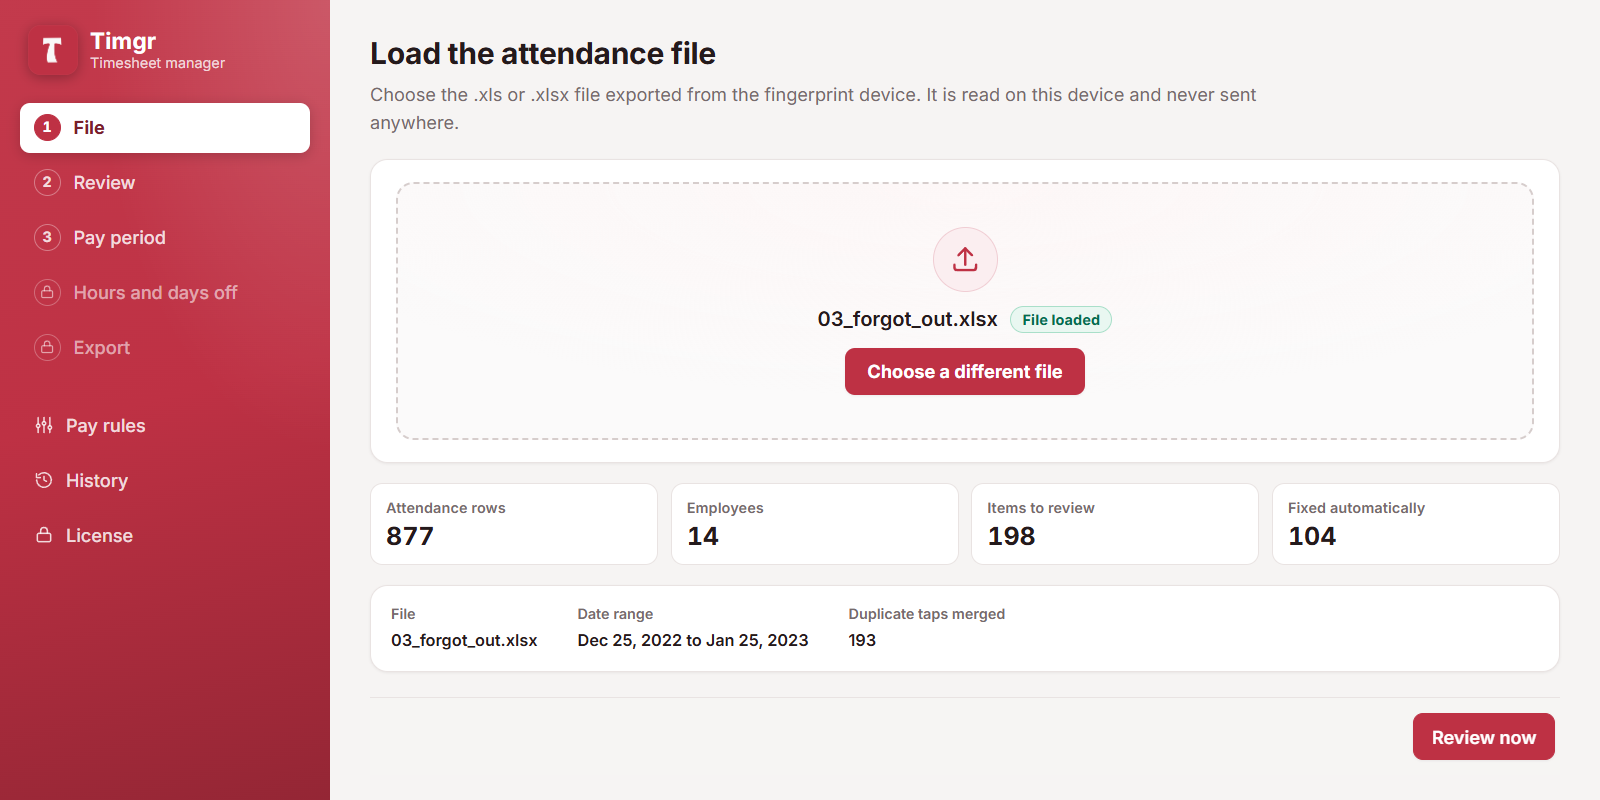
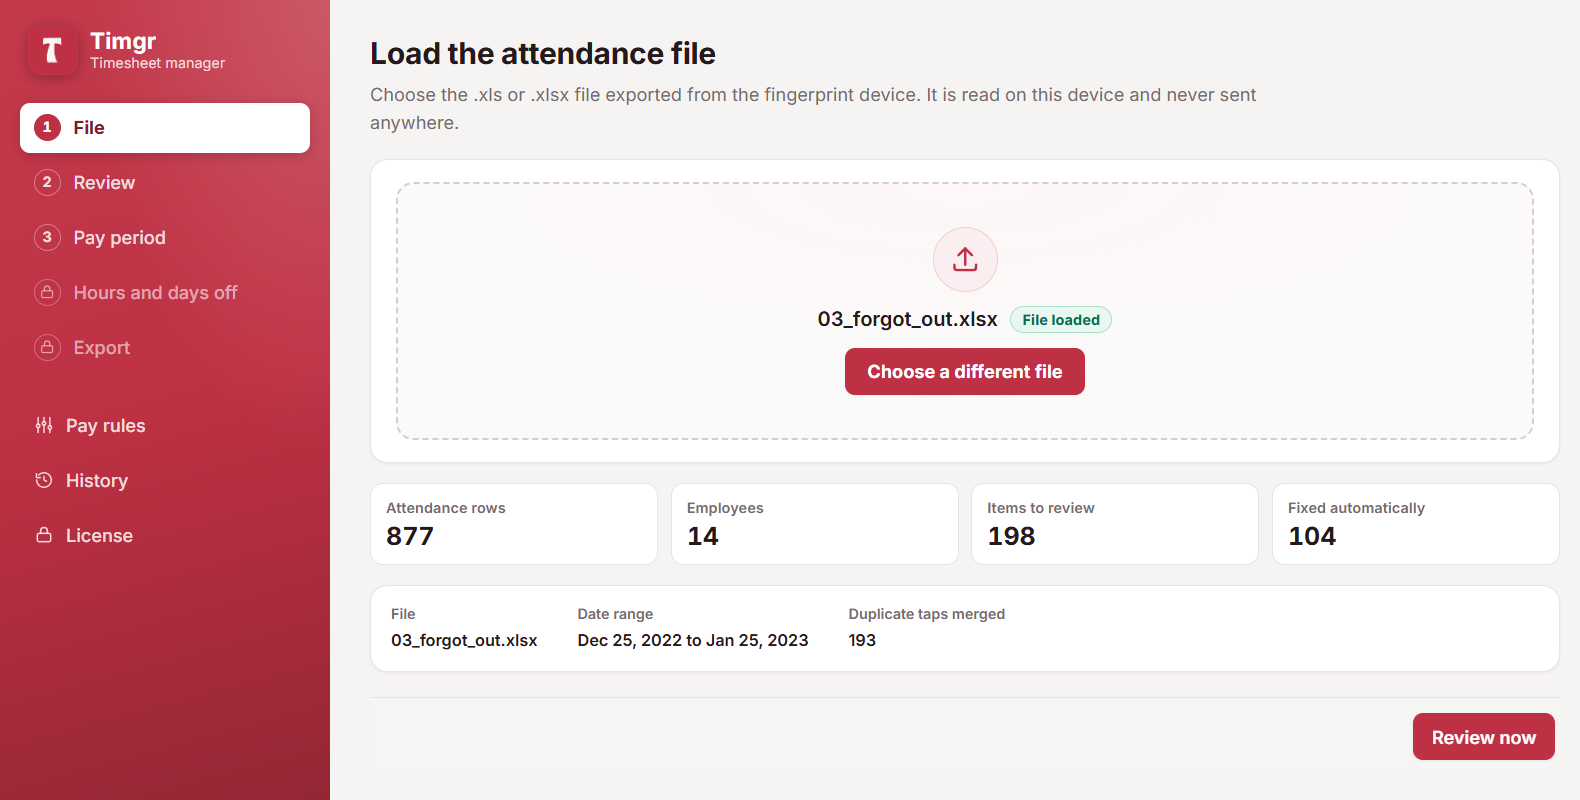
docs: rebuild the README around what the app actually does
Adds what the app catches (using the app's own labels), a preview-before-saving section, a questions section, and three more screenshots: the file screen, the all-answered state, and the Arabic right-to-left screen. Crops the window scrollbar out of the images.

diff --git a/README.md b/README.md
@@ -1,29 +1,58 @@
 <div align="center">
 
-<img src="Logo.png" alt="Timgr" width="96" height="96" />
+<img src="Logo.png" alt="Timgr" width="88" height="88" />
 
 # Timgr
 
 **Turn a fingerprint attendance export into a payroll-ready timesheet.**
 
-An offline Windows app. No account, no server, no telemetry.
+Runs on your own Windows PC. No account, no server, no telemetry.
 
 <img alt="Windows 10 and 11, 64-bit" src="https://img.shields.io/badge/Windows-10%20%7C%2011%20x64-0078D4?logo=windows&logoColor=white"> <img alt="No network" src="https://img.shields.io/badge/network-none-2EA44F"> <img alt="Version 1.3.0" src="https://img.shields.io/badge/version-1.3.0-BE3144"> <img alt="Proprietary license" src="https://img.shields.io/badge/license-proprietary-6E7781">
 
-**[Download for Windows](../../releases/latest)** &nbsp;·&nbsp; [Release notes](../../releases/latest) &nbsp;·&nbsp; [Licensing](#licensing)
+**[Download](#download)** &nbsp;·&nbsp; [Screenshots](#screenshots) &nbsp;·&nbsp; [What it catches](#what-it-catches) &nbsp;·&nbsp; [Licensing](#licensing) &nbsp;·&nbsp; [Release notes](../../releases/latest)
 
-<img src="screenshot-review.png" alt="Timgr's Review screen: 198 items found, 94 still needing an answer" width="100%" />
+<img src="screenshot-review.png" alt="The Review screen: 198 items found, 104 fixed on their own, 94 still waiting for an answer" width="100%" />
 
 </div>
+
+## Why
+
+A month of attendance comes out of the device full of noise: taps a second apart, people who forgot to clock out, one clock that jumped 45 days. Fixing that by hand in Excel takes hours, and the mistakes reach payroll.
+
+Timgr merges what can be merged on its own, puts the rest in front of you one item at a time with a suggested answer, and writes the workbook payroll already expects.
 
 ## What it does
 
 | Step | What happens |
 | --- | --- |
-| **1. File** | Open the `.xls` or `.xlsx` export from the fingerprint device. |
-| **2. Review** | Duplicate taps are merged, punches are paired into shifts, and anything odd is put in front of you instead of being guessed at. |
-| **3. Pay period** | The pay period, working hours, overtime, days off, and the pay rules for that period. |
-| **4. Export** | An Excel file in the layout payroll already expects. |
+| **1. File** | Open the `.xls` or `.xlsx` export from the fingerprint device. It is read on this PC and never sent anywhere. |
+| **2. Review** | Duplicate taps are merged, punches are paired into shifts, and anything odd waits for your answer. Export stays locked until every item has one. |
+| **3. Pay period** | The days this export pays for, the working hours, the weekly day off, the saved holidays, and the pay rules. |
+| **4. Export** | A preview of the finished sheet, then a saved `.xlsx` in the layout payroll already uses. |
+
+## What it catches
+
+Each of these is a decision you can see and change, not a silent guess:
+
+| What it finds | What you do about it |
+| --- | --- |
+| **Duplicate taps** | Two taps from the same moment. Merged on their own, and listed so you can see it happened. |
+| **Clock-in with no clock-out** | Apply the missing-punch penalty, or type the real clock-out time. |
+| **Clock-out with no clock-in** | The same, from the other side. |
+| **Accidental tap** | Clock-in and clock-out only seconds apart, usually someone walking past the device. Remove the shift, or keep it. |
+| **Gap in attendance** | A break in that person's days: a real absence, or a clock that was corrected. Keep the data as it is. |
+| **Dates far from the rest** | A jump of 45 days or more, usually a device glitch. Keep the punches, or exclude the days you choose. |
+| **Two departments** | One employee number under more than one department. Pick the department payroll uses. |
+| **Different name spellings** | One employee number, two spellings. Keep both, or pick the right one. |
+
+A status value the app does not recognise stops the file and names the values. It is never guessed at.
+
+## Preview before saving
+
+The export step shows the sheet before anything is written: totals, worked shifts, incomplete rows, absences, bonus and deduction hours, and every person's rows. Punches outside the pay period are counted and shown separately, so nothing is dropped quietly. Days off are marked, and work done on them lands in the holiday column.
+
+## Screenshots
 
 <p align="center">
   <img src="screenshot-file.png" alt="The File screen after loading an export: 877 attendance rows, 14 employees, 198 items to review, 104 fixed automatically" width="100%" />
@@ -31,49 +60,59 @@ An offline Windows app. No account, no server, no telemetry.
   <sub>One export loaded: 877 rows, 14 employees, 193 duplicate taps merged, 104 items fixed on their own, 198 left to answer.</sub>
 </p>
 
-The file is read on the PC and the workbook is written on the PC. Nothing is uploaded.
+<p align="center">
+  <img src="screenshot-answered.png" alt="The Review screen with every item answered and a green note that export is unlocked" width="100%" />
+  <br />
+  <sub>Every item answered, so export unlocks. Nothing is saved until you look at the preview.</sub>
+</p>
+
+<p align="center">
+  <img src="screenshot-arabic.png" alt="The same Review screen in Arabic, with the sidebar on the right" width="100%" />
+  <br />
+  <sub>The whole interface in Arabic, right to left. Dates, times, and employee numbers keep their own direction inside the Arabic text.</sub>
+</p>
 
 ## Download
 
-**[Timgr 1.3.0 for Windows](../../releases/latest)** is the current build: one installer, about 5 MB, for Windows 10 and 11 on 64-bit.
+**[Timgr 1.3.0 for Windows](../../releases/latest)** is the current build: one installer, for Windows 10 and 11 on 64 bit.
 
-Check the file before you run it. The release also carries `SHA256SUMS.txt` with the same hash.
+| File | Size | SHA-256 |
+| --- | --- | --- |
[1 lines of base64/hex data omitted]
+
+`SHA256SUMS.txt` is attached to the same release. Check the file before you run it:
 
 ```powershell
 Get-FileHash .\Timgr_1.3.0_x64-setup.exe -Algorithm SHA256
 ```
 
-The result must be:
-
-```text
[1 lines of base64/hex data omitted]
-```
+The result must match the hash above.
 
 ## Install
 
 1. Run `Timgr_1.3.0_x64-setup.exe`.
 2. Windows SmartScreen shows **"Windows protected your PC"** because the installer is not code-signed yet. Choose **More info**, then **Run anyway**.
-3. It installs for the current Windows user, with a Start-menu shortcut. No admin prompt.
+3. It installs for the current Windows user with a Start-menu shortcut. There is no admin prompt.
 
-Needs Windows 10 (1809 or newer) or Windows 11, 64-bit, and about 200 MB of disk. Most of that space is Microsoft's WebView2 runtime; Windows 11 and updated Windows 10 already have it, and the installer only downloads it when it is missing.
+Needs Windows 10 (1809 or newer) or Windows 11, 64 bit, and about 200 MB of disk. Most of that is Microsoft's WebView2 runtime: Windows 11 and updated Windows 10 already have it, and the installer fetches it only when it is missing.
 
 Installing a newer version over an older one keeps your settings, drafts, and export history.
 
 ## Licensing
 
-Saving a workbook needs a license: one small signed file, checked on this PC, never sent anywhere.
+Saving a workbook needs a license: one small signed file, checked on this PC and never sent anywhere.
 
-1. Open **License** in the app. If the license will be tied to this PC, copy the **Device code** shown there.
+1. Open **License** in the app. If the license is tied to this PC, copy the **Device code** shown there.
 2. Send that code to whoever issues your license.
 3. Import the `.timgr-license` file you get back, or paste its text. The screen then reads **This device is licensed**.
 
-The interface is in English and Arabic, with full right-to-left layout.
+A license that fails to import never replaces the one already on the machine.
 
 ## What's new in 1.3.0
 
-- **A signing key no longer needs a new installer.** The app carries a root key that can authorize a daily signing key, so keys can be rotated without shipping a new build.
-- **Delegated licenses say so.** A license signed by a delegated key shows **ISSUED UNDER** with the root that authorized it.
-- **Damage is named.** An edited delegation reads "This license is damaged or was changed"; a missing or repeated one reads "This license's signing chain is not valid". A failed import never replaces the license already on the machine.
+- **A signing key no longer needs a new installer.** The app carries a root key that can authorise a daily signing key, so keys can be rotated without shipping a new build.
+- **Delegated licenses say so.** A license signed by a delegated key shows **ISSUED UNDER** with the root that authorised it.
+- **Damage is named.** An edited delegation reads "This license is damaged or was changed"; a missing or repeated one reads "This license's signing chain is not valid".
 
 The review screen, the pipeline, and the saved workbook are unchanged from 1.2.x. Full notes are on the [release page](../../releases/latest).
 
@@ -83,6 +122,44 @@ The review screen, the pipeline, and the saved workbook are unchanged from 1.2.x
 - The attendance file never leaves the PC, and the app makes no network requests.
 - The only network use anywhere is the installer fetching WebView2 when Windows is missing it.
 - Data lives in `%APPDATA%\com.timgr.desktop`: settings, drafts, export history, the installed license. Delete that folder to remove it.
+
+## Questions
+
+<details>
+<summary><b>Does it need the internet?</b></summary>
+<br />
+No. The app works with the network cable out. The installer is the only thing that may reach the internet, and only to fetch WebView2 when Windows does not have it yet.
+</details>
+
+<details>
+<summary><b>Does it change my export file?</b></summary>
+<br />
+No. The export is read and left as it is. The workbook is written as a new file, and you choose where it goes.
+</details>
+
+<details>
+<summary><b>Why does Windows warn about the installer?</b></summary>
+<br />
+The installer is not code-signed yet, so SmartScreen treats a new file with an unknown publisher as risky. **More info**, then **Run anyway** gets past it. The SHA-256 above is how you check the file is the one published here.
+</details>
+
+<details>
+<summary><b>Can I install it on another PC?</b></summary>
+<br />
+Yes, the same installer. A license that is tied to a device code is issued for one PC, so send the new device code and get a license for that machine.
+</details>
+
+<details>
+<summary><b>What if I lose the license file?</b></summary>
+<br />
+Ask for it again and quote your device code. Your attendance data and settings are not affected.
+</details>
+
+<details>
+<summary><b>Is my old saved sheet still there?</b></summary>
+<br />
+Yes. Every export is kept in **History**, with the file you saved it to.
+</details>
 
 ## Uninstall
 
